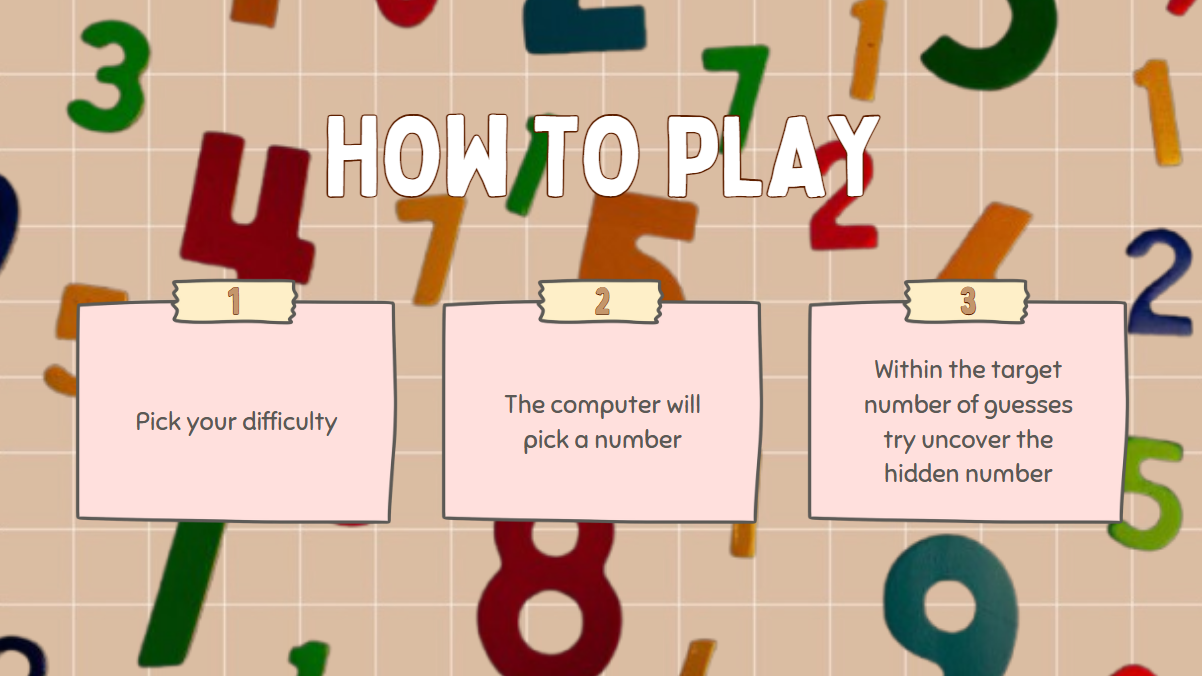
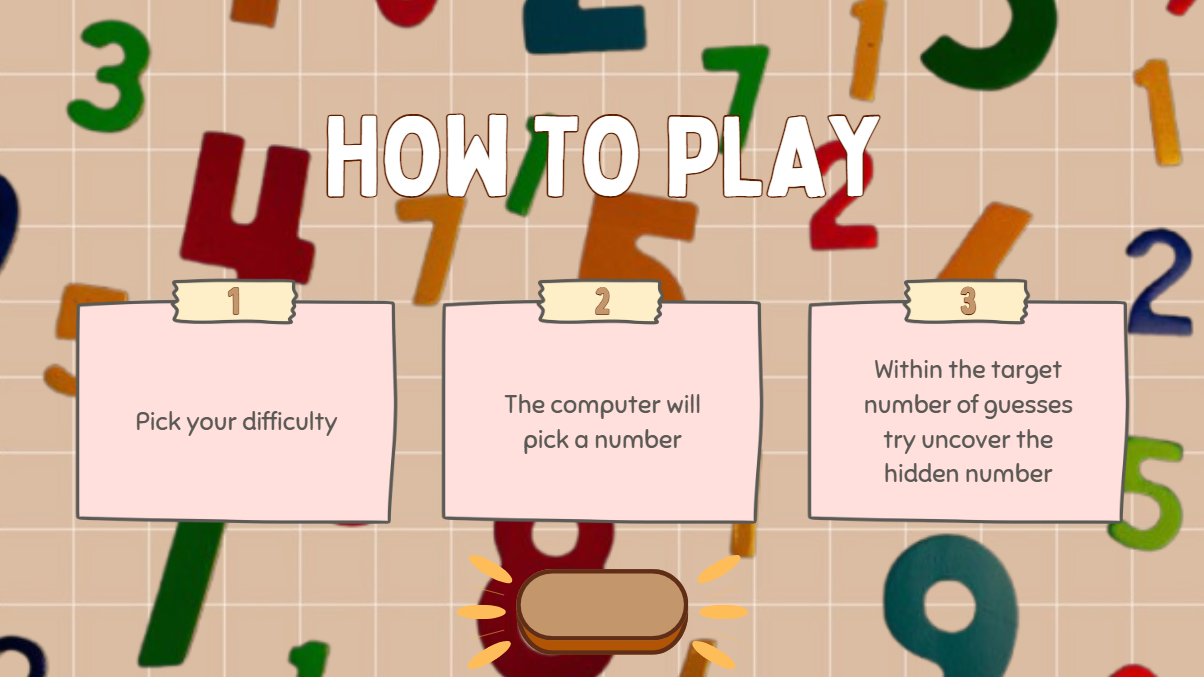
added new file

diff --git a/game_instructions.py b/game_instructions.py
@@ -1,14 +1,70 @@
 import tkinter as tk
 from PIL import Image, ImageTk
+from tkinter import font
+
+from index import canvas
+
+root=tk.Tk()
+root.title("Instructions")
 
 class GameInstructions(tk.Frame):
     def __init__(self, parent):
         super().__init__(parent)
 
+        # Load the background image
         self.bg_image = Image.open("gi_bg.png")
-        self.bg_photo = ImageTk.PhotoImage(self.bg_image)
 
-        self.bg_label = tk.Label(self, image=self.bg_photo)
+        # Create a label to hold the background
+        self.bg_label = tk.Label(self)
         self.bg_label.place(x=0, y=0, relwidth=1, relheight=1)
 
-        self.bg_label.image = self.bg_photo
+        # Resize the image whenever the frame changes size
+        self.bind("<Configure>", self.resize_background)
+
+    def resize_background(self, event):
+        # Only resize if the Frame itself is resizing, not its child widgets
+        if event.widget == self:
+            # Resize image to fit the window
+            resized_image = self.bg_image.resize((event.width, event.height), Image.Resampling.LANCZOS)
+
+            # Convert to a Tkinter image
+            self.bg_photo = ImageTk.PhotoImage(resized_image)
+
+            # Display the image
+            self.bg_label.config(image=self.bg_photo)
+            # Keep a reference to prevent garbage collection
+            self.bg_label.image = self.bg_photo
+
+#Button
+button2_font = font.Font(family="Times New Roman", size=26)
+
+def open_instructions():
+    # Remove title screen
+    canvas.pack_forget()
+    button2.destroy()
+
+    # Show instructions screen
+    instructions = GameInstructions(root)
+    instructions.pack(fill="both", expand=True)
+
+button2 = tk.Button(
+    root,
+    text="CLICK HERE TO BEGIN",
+    font=button2_font,
+    bd=0,
+    bg="#feefc8",
+    activebackground="#c7b897",
+    height=1,
+    width=20,
+    command=open_instructions
+)
+button2.place(x=762, y=135)
+
+#Hover Effects
+def on_enter(event):
+    button2.config(bg="#c7b897")
+def on_leave(event):
+    button2.config(bg="#feefc8")
+
+button2.bind("<Enter>", on_enter)
+button2.bind("<Leave>", on_leave)

diff --git a/index.py b/index.py
@@ -6,7 +6,7 @@ from game_instructions import GameInstructions
 
 #Window Setup
 root = tk.Tk()
-root.title("Guess the Number")
+root.title("Guess the Number!")
 root.geometry("1915x1000")
 
 #Background
@@ -31,7 +31,7 @@ canvas.bind("<Configure>", resize_image)
 resize_image(type("obj", (object,), {"width": 1915, "height": 1000}))
 
 #Button
-button_font = font.Font(family="Times New Roman", size=26)
+button1_font = font.Font(family="Times New Roman", size=26)
 
 def open_instructions():
     # Remove title screen
@@ -45,7 +45,7 @@ def open_instructions():
 button1 = tk.Button(
     root,
     text="CLICK HERE TO BEGIN",
-    font=button_font,
+    font=button1_font,
     bd=0,
     bg="#feefc8",
     activebackground="#c7b897",